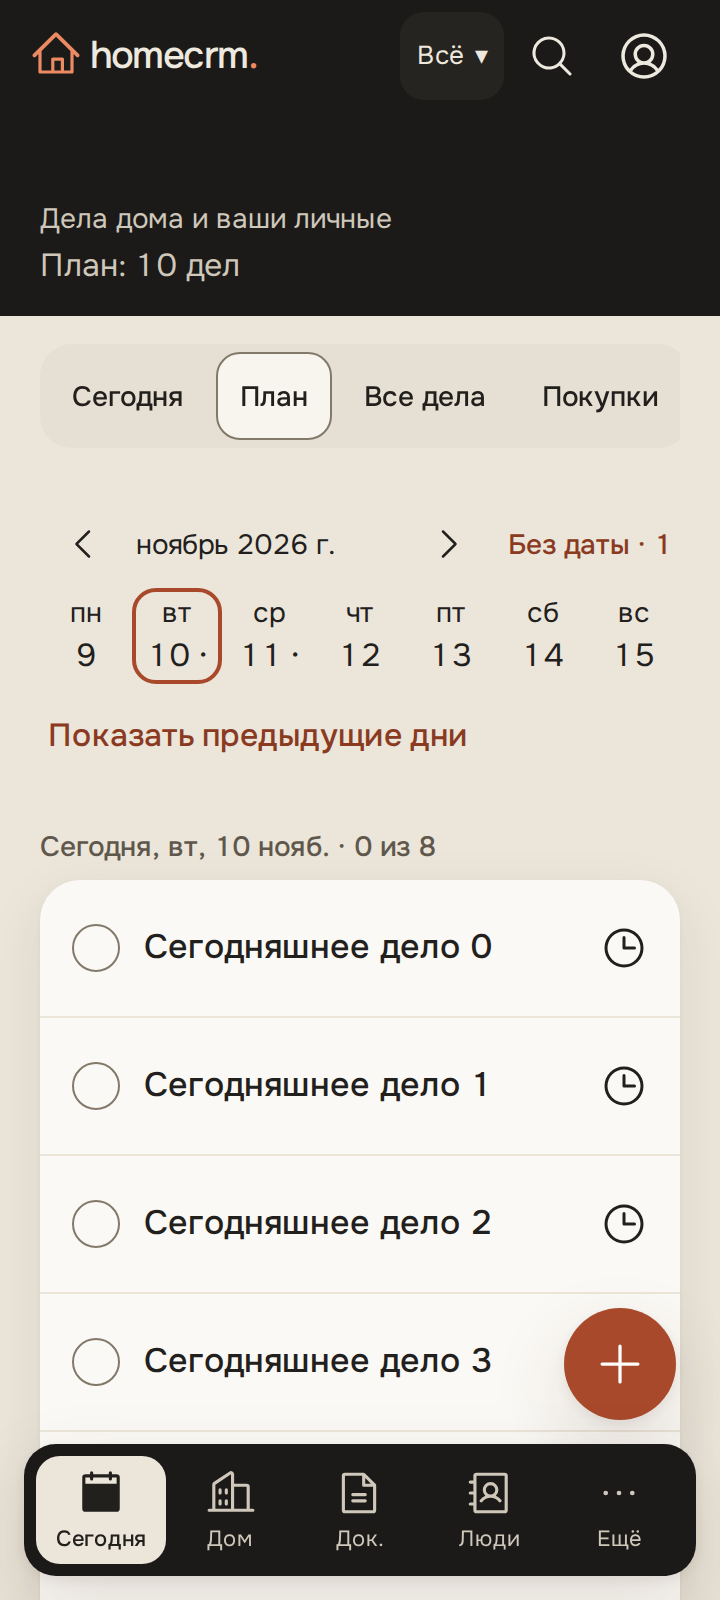
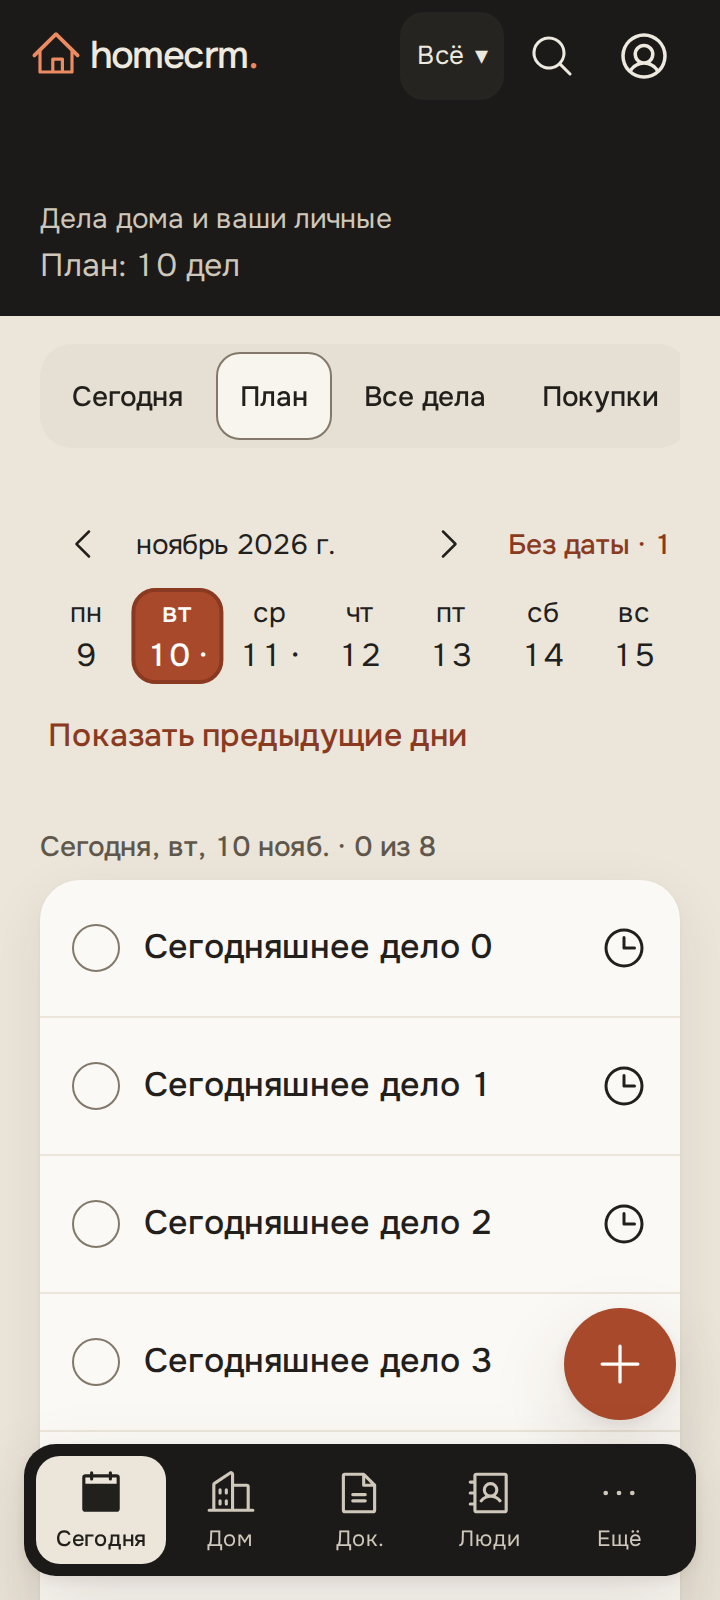
TASK-5: сохранять цвет сегодня и анимировать рамку выбора

Changed region(s): [[0.1833, 0.3438, 0.3361, 0.4375]]

diff --git a/apps/web/src/tasks/PlanWeek.tsx b/apps/web/src/tasks/PlanWeek.tsx
@@ -38,6 +38,7 @@ export function PlanWeek({
     return () => observer.disconnect();
   }, []);
   const [day, setDay] = useState(today);
+  const [selectedDay, setSelectedDay] = useState(today);
   const [busy, setBusy] = useState(false);
   useEffect(() => {
     if (!active) return;
@@ -57,7 +58,11 @@ export function PlanWeek({
   const selected = day || today;
   const weekday = new Date(`${selected}T12:00:00Z`).getUTCDay();
   const monday = shiftTaskDate(selected, -((weekday + 6) % 7));
+  const selectedIndex = Array.from({ length: 7 }, (_, i) => shiftTaskDate(monday, i)).indexOf(
+    selectedDay,
+  );
   const choose = async (date: string) => {
+    setSelectedDay(date);
     setBusy(true);
     try {
       await jump(date);
@@ -114,6 +119,15 @@ export function PlanWeek({
         ) : null}
       </div>
       <div className="plan-week__days">
+        <span
+          className="plan-week__selection"
+          aria-hidden
+          data-selected-date={selectedDay}
+          style={{
+            transform: `translateX(${Math.max(0, selectedIndex) * 100}%)`,
+            opacity: selectedIndex < 0 ? 0 : 1,
+          }}
+        />
         {Array.from({ length: 7 }, (_, i) => {
           const date = shiftTaskDate(monday, i);
           const count = counts.get(date);
@@ -127,6 +141,7 @@ export function PlanWeek({
               type="button"
               disabled={busy || date < minimum}
               aria-current={date === today ? 'date' : undefined}
+              aria-pressed={date === selectedDay}
               aria-label={
                 count === undefined
                   ? `${full}, дела не загружены`

diff --git a/apps/web/src/styles/plan-diary.css b/apps/web/src/styles/plan-diary.css
@@ -19,6 +19,7 @@
   white-space: nowrap;
 }
 .plan-week__days {
+  position: relative;
   display: grid;
   grid-template-columns: repeat(7, minmax(0, 1fr));
 }
@@ -39,8 +40,24 @@
   font-size: 14px;
 }
 .plan-week__days button[aria-current] {
-  outline: 2px solid var(--accent);
-  outline-offset: -2px;
+  background: var(--accent);
+  color: var(--on-accent);
+  font-weight: 700;
+}
+.plan-week__selection {
+  position: absolute;
+  inset: 0 auto 0 0;
+  width: calc(100% / 7);
+  border: 2px solid var(--accent-strong);
+  border-radius: 12px;
+  pointer-events: none;
+  z-index: 1;
+  transition: transform var(--motion-fast) var(--ease-out);
+}
+@media (prefers-reduced-motion: reduce) {
+  .plan-week__selection {
+    transition: none;
+  }
 }
 .plan-week__dot {
   font-weight: 700;

diff --git a/docs/screenshots/d49/README.md b/docs/screenshots/d49/README.md
@@ -3,6 +3,7 @@
 Linux Playwright, тема Studio, ширины 360 и 412 px; высота окна 800 px.
 
 - `today-w360.png`, `today-w412.png` — первое открытие на сегодня без запроса прошлого и программной прокрутки.
+- `selection-w360.png`, `selection-w412.png` — сегодня выделено цветом; выбранное завтра — отдельной рамкой после снятия фокуса. Рамка перемещается плавно, при уменьшении движения — сразу.
 - `sticky-w360.png`, `sticky-w412.png` — прилипшие вкладки и неделя; на 360 × 800 видно не менее пяти строк.
 - `history-w360.png`, `history-w412.png` — история выполненного и пустые прошлые дни.
 - `undated-w360.png`, `undated-w412.png` — лист «Без даты» и возраст дела.
